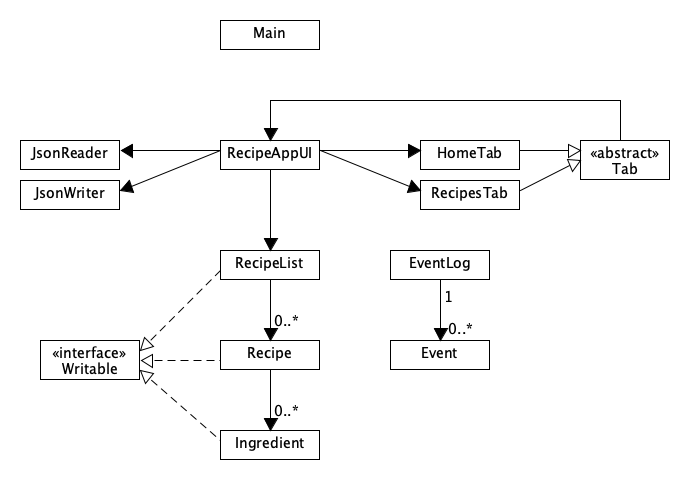
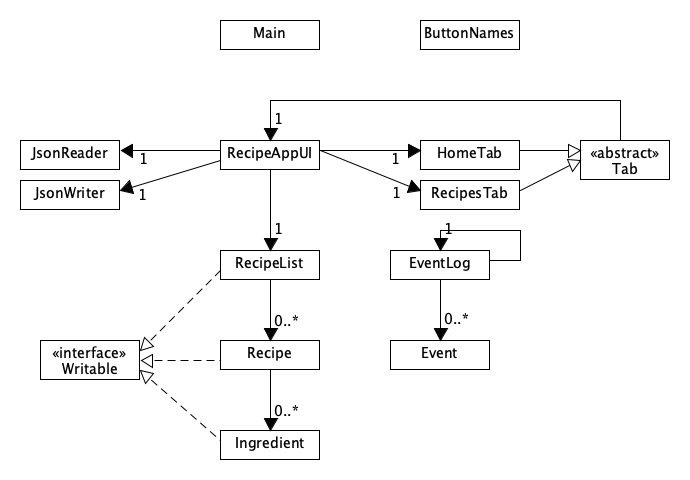
Replaced UML diagram with updated version, including multiplicities and ButtonNames class. Added documentation to window closing method in RecipeAppUI. Moved old console based UI and lettuce gif to deprecated folder.

diff --git a/src/main/ui/RecipeAppUI.java b/src/main/ui/RecipeAppUI.java
@@ -104,6 +104,7 @@ public class RecipeAppUI extends JFrame implements WindowListener {
         return this.recipeList;
     }
 
+    // EFFECTS: prints all events of a given event log to the console
     public void printLog(EventLog el) {
         String printed = "";
         for (Event next : el) {
@@ -114,9 +115,10 @@ public class RecipeAppUI extends JFrame implements WindowListener {
 
     @Override
     public void windowOpened(WindowEvent e) {
-
+        // do nothing
     }
 
+    // EFFECTS: prints the singular instance of Event Log to the console and ends the program
     @Override
     public void windowClosing(WindowEvent e) {
         printLog(EventLog.getInstance());
@@ -125,25 +127,26 @@ public class RecipeAppUI extends JFrame implements WindowListener {
 
     @Override
     public void windowClosed(WindowEvent e) {
+        // do nothing
     }
 
     @Override
     public void windowIconified(WindowEvent e) {
-
+        // do nothing
     }
 
     @Override
     public void windowDeiconified(WindowEvent e) {
-
+        // do nothing
     }
 
     @Override
     public void windowActivated(WindowEvent e) {
-
+        // do nothing
     }
 
     @Override
     public void windowDeactivated(WindowEvent e) {
-
+        // do nothing
     }
 }

diff --git a/src/main/ui/tabs/HomeTab.java b/src/main/ui/tabs/HomeTab.java
@@ -1,6 +1,5 @@
 package ui.tabs;
 
-import model.EventLog;
 import ui.ButtonNames;
 import ui.RecipeAppUI;
 
@@ -8,8 +7,6 @@ import javax.swing.*;
 import java.awt.*;
 import java.awt.event.ActionEvent;
 import java.util.Objects;
-
-import static java.awt.event.WindowEvent.WINDOW_CLOSING;
 
 public class HomeTab extends Tab {
     private static final String INIT_GREETING = "Welcome to Mom and Pop's Recipes!";

diff --git a/src/main/ui/deprecated/RecipeApp.java b/src/main/ui/deprecated/RecipeApp.java
@@ -1,4 +1,4 @@
-package ui;
+package ui.deprecated;
 
 import model.Ingredient;
 import model.Recipe;
